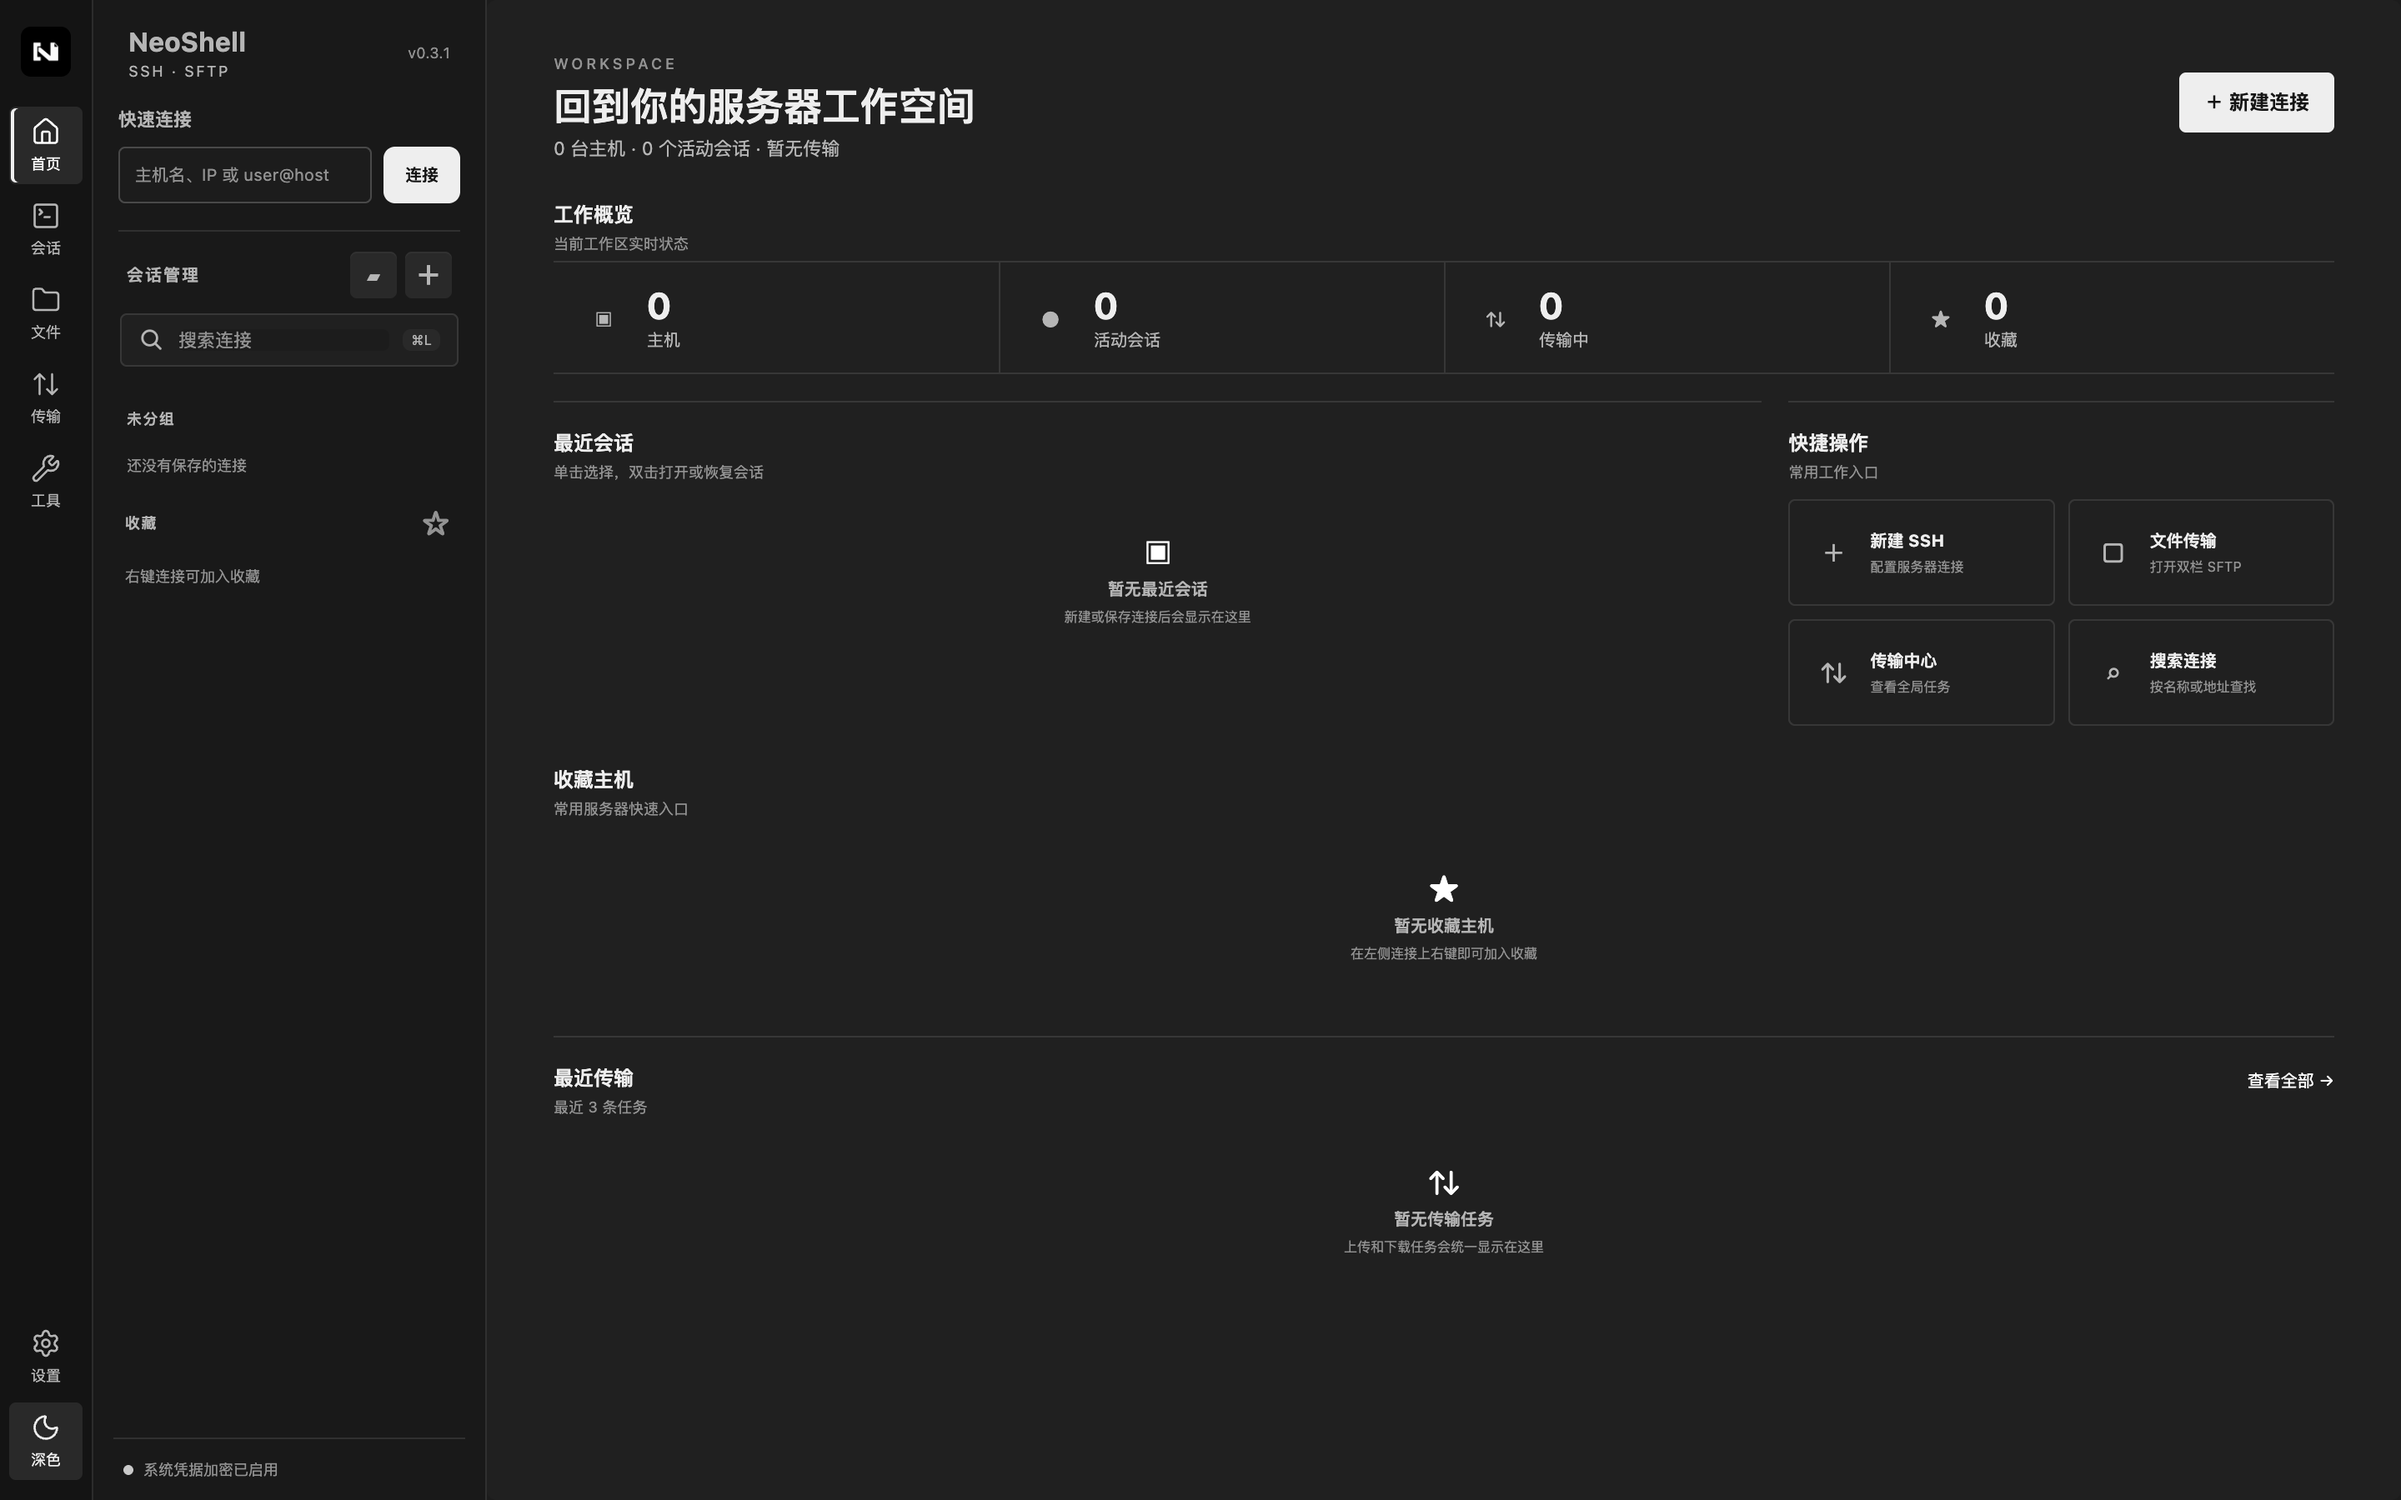
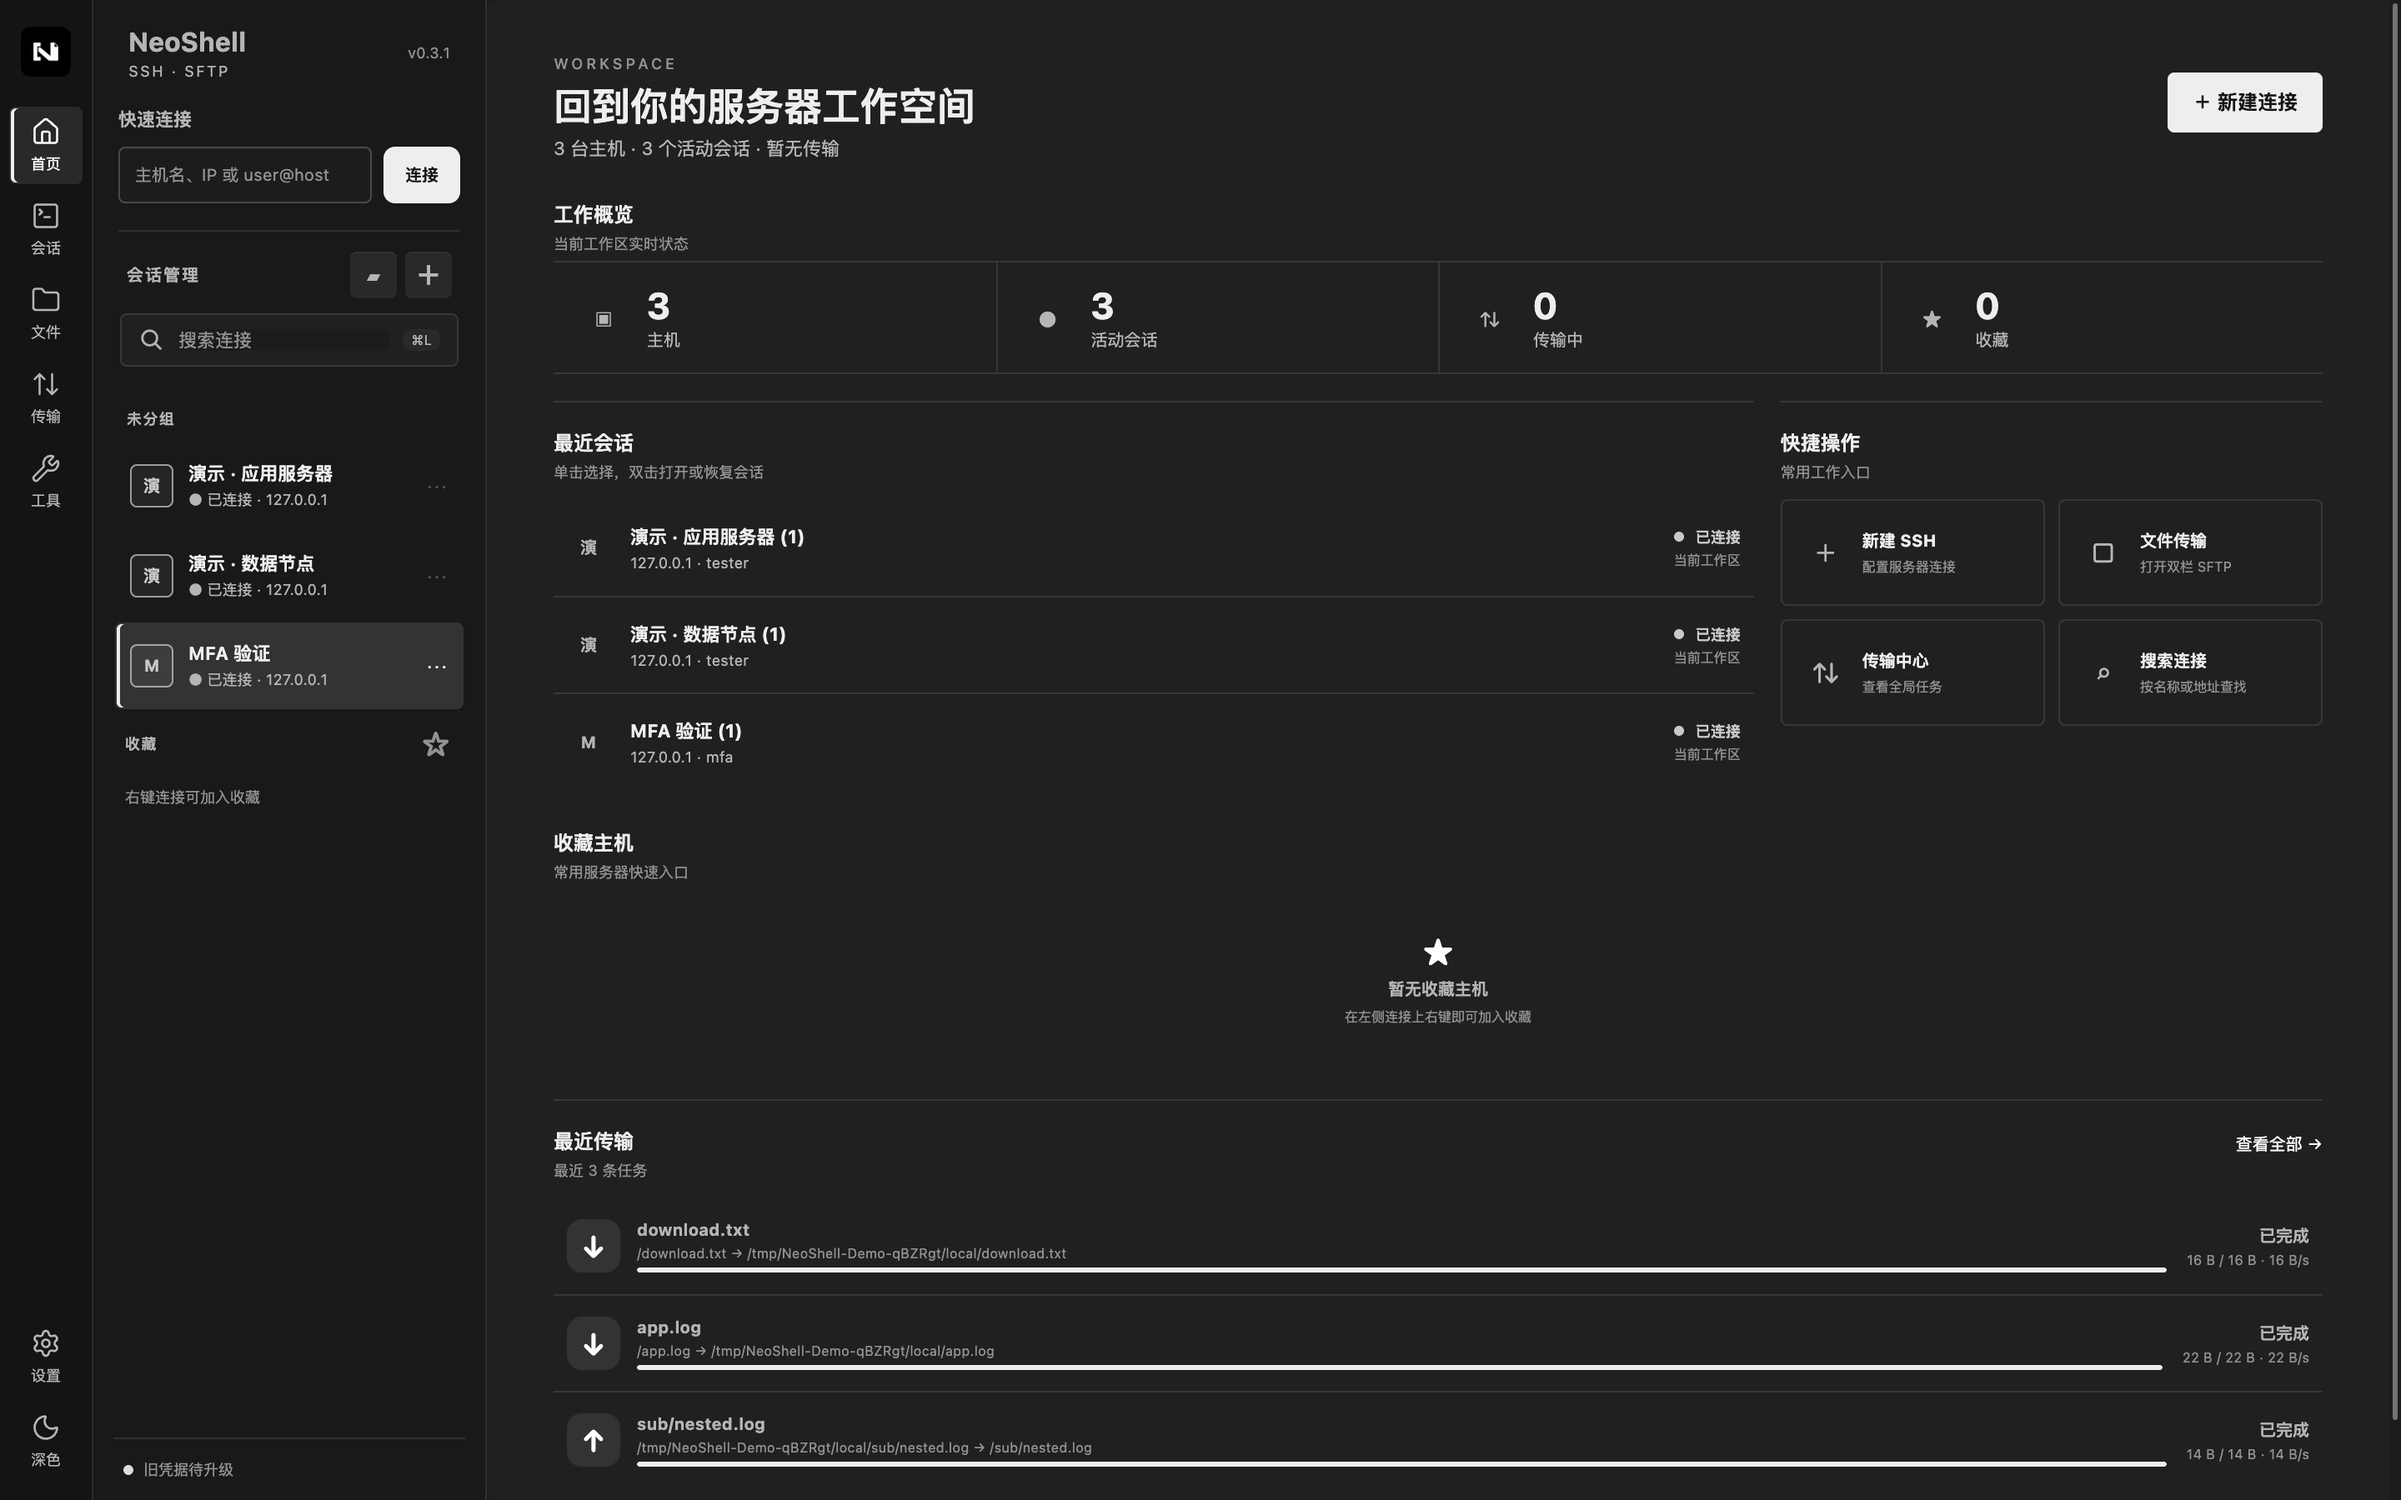
docs: refresh v0.3.1 screenshots for terminal and SFTP features

diff --git a/README.md b/README.md
@@ -18,16 +18,72 @@ v0.3.0 起，可通过 **设置 → 应用更新** 或 **帮助 → 检查更新
 
 版本说明包含改动范围和验证边界。SHA256SUMS.txt 可用于核对下载文件是否完整。
 
-## 深浅色界面
+## 界面与功能截图
 
-以下截图来自 v0.3.1 的真实 Electron 窗口，使用独立测试数据。
+截图来自 v0.3.1 的真实 Electron 窗口，展示新版黑白界面与 Shell/SFTP 标识。连接、命令输出和文件均为独立的本地 SSH/SFTP 演示数据。
 
-### 浅色
+### 浅色首页
 
-![NeoShell 浅色界面](./screenshots/v0.3.1/home-light.png)
+连接列表、最近会话和传输状态集中在工作区首页。
 
-### 深色
+![NeoShell 浅色首页](./screenshots/v0.3.1/home-light.png)
 
-![NeoShell 深色界面](./screenshots/v0.3.1/home-dark.png)
+### 深色首页
 
-终端分屏、批量执行、命令片段、会话日志、文件同步预览、过滤、搜索和图形化权限修改继续提供。终端 ANSI 彩色输出保留。
+保持相同布局与新标识，切换为黑底白字。
+
+![NeoShell 深色首页](./screenshots/v0.3.1/home-dark.png)
+
+### 终端分屏 · 浅色
+
+两个 SSH 会话并排显示，保留终端 ANSI 彩色输出。
+
+![NeoShell 终端分屏 · 浅色](./screenshots/v0.3.1/terminal-split-light.png)
+
+### 终端分屏 · 深色
+
+深色主题下的多会话终端工作区。
+
+![NeoShell 终端分屏 · 深色](./screenshots/v0.3.1/terminal-split-dark.png)
+
+### 命令片段与批量执行
+
+命令片段可保存到本机；选择多个已连接会话执行命令，并查看批次状态。
+
+![NeoShell 命令片段与批量执行](./screenshots/v0.3.1/snippets-and-batch.png)
+
+### 双栏 SFTP 与过滤规则
+
+本地与服务器文件并排浏览，支持包含和排除规则。
+
+![NeoShell 双栏 SFTP 与过滤规则](./screenshots/v0.3.1/sftp-files-dark.png)
+
+### 文件夹同步预览
+
+执行前查看新增、覆盖和新建目录清单，并选择要处理的差异项。
+
+![NeoShell 文件夹同步预览](./screenshots/v0.3.1/sync-preview.png)
+
+### 远程文件搜索
+
+递归搜索当前远程目录，点击结果打开所在目录。
+
+![NeoShell 远程文件搜索](./screenshots/v0.3.1/file-search.png)
+
+### 图形化权限修改
+
+通过所有者、用户组和其他人的 rwx 选项调整权限，与八进制值联动。
+
+![NeoShell 图形化权限修改](./screenshots/v0.3.1/permissions.png)
+
+### 会话日志
+
+查看已启用记录的终端输出，并导出选中日志。
+
+![NeoShell 会话日志](./screenshots/v0.3.1/session-logs.png)
+
+### 设置与 GitHub 更新入口
+
+显示当前版本与 GitHub 正式版状态，提供检查更新和发布页入口。
+
+![NeoShell 设置与 GitHub 更新入口](./screenshots/v0.3.1/check-updates.png)
